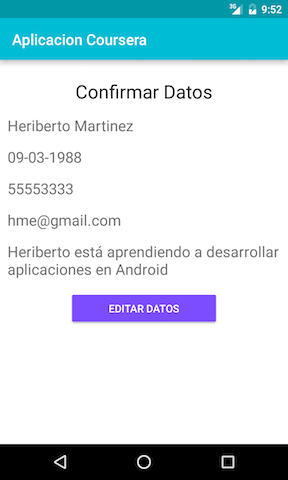
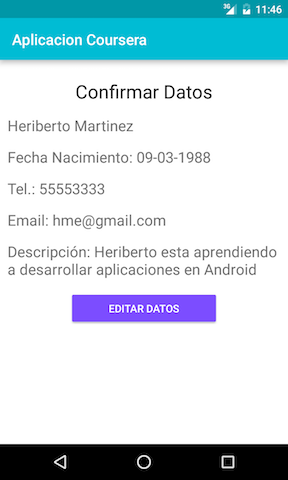
Se programó boton editar

diff --git a/app/src/main/java/com/hmelizarraraz/segundaaplicacioncoursera/ConfirmacionDatos.java b/app/src/main/java/com/hmelizarraraz/segundaaplicacioncoursera/ConfirmacionDatos.java
@@ -2,16 +2,19 @@ package com.hmelizarraraz.segundaaplicacioncoursera;
 
 import android.support.v7.app.AppCompatActivity;
 import android.os.Bundle;
+import android.view.View;
+import android.widget.Button;
 import android.widget.TextView;
 
 public class ConfirmacionDatos extends AppCompatActivity {
 
-    // tv a setear datos
     private TextView tvNombre;
     private TextView tvFecha;
     private TextView tvTelefono;
     private TextView tvEmail;
     private TextView tvDescripcion;
+
+    private Button btnEditar;
 
 
     @Override
@@ -33,13 +36,21 @@ public class ConfirmacionDatos extends AppCompatActivity {
         tvTelefono      = (TextView) findViewById(R.id.tvTelefono);
         tvEmail         = (TextView) findViewById(R.id.tvEmail);
         tvDescripcion   = (TextView) findViewById(R.id.tvDescripcion);
+        btnEditar       = (Button) findViewById(R.id.btnEditar);
 
 
         tvNombre.setText(nombre);
-        tvFecha.setText(fecha);
-        tvTelefono.setText(telefono);
-        tvEmail.setText(email);
-        tvDescripcion.setText(descripcion);
+        tvFecha.setText("Fecha Nacimiento: " + fecha);
+        tvTelefono.setText("Tel.: " + telefono);
+        tvEmail.setText("Email: " + email);
+        tvDescripcion.setText("Descripción: " + descripcion);
+
+        btnEditar.setOnClickListener(new View.OnClickListener() {
+            @Override
+            public void onClick(View view) {
+                finish();
+            }
+        });
 
     }
 }

diff --git a/app/src/main/java/com/hmelizarraraz/segundaaplicacioncoursera/MainActivity.java b/app/src/main/java/com/hmelizarraraz/segundaaplicacioncoursera/MainActivity.java
@@ -95,7 +95,6 @@ public class MainActivity extends AppCompatActivity implements View.OnClickListe
         intent.putExtra(getResources().getString(R.string.pemail), etEmail.getText().toString());
         intent.putExtra(getResources().getString(R.string.pdescripcion), etDescripcion.getText().toString());
         startActivity(intent);
-        finish();
     }
 
 }
